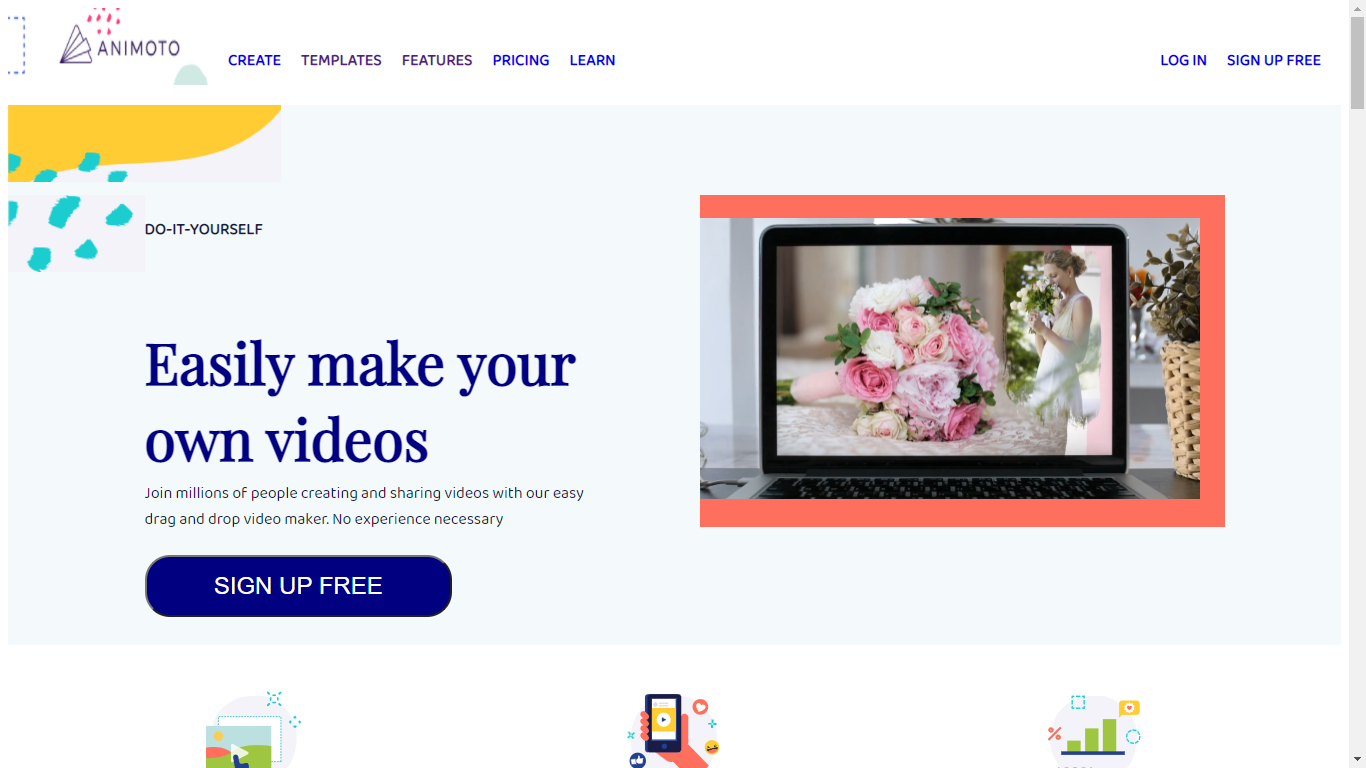
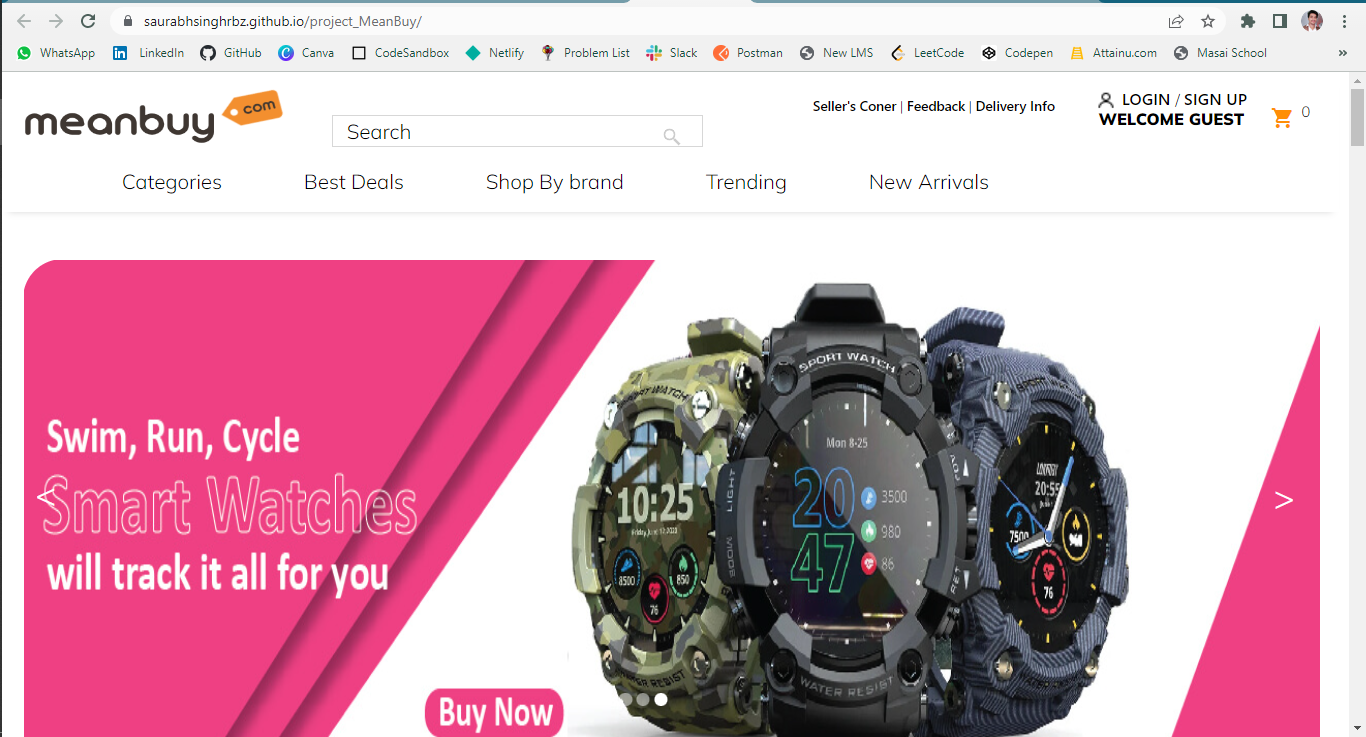
updating project

diff --git a/src/components/Projects/Projects.js b/src/components/Projects/Projects.js
@@ -25,7 +25,7 @@ function Projects() {
             Here are a few projects I've worked on recently.
           </p>
           <Row style={{ justifyContent: "center", paddingBottom: "10px" }}>
-            <Col md={6} className="project-card first-blog">
+            {/* <Col md={6} className="project-card first-blog">
               <ProjectCard
                 imgPath={project02}
                 isBlog={false}
@@ -35,21 +35,21 @@ function Projects() {
                 link="https://github.com/shivam-singh-au17/ProjectMediumClone"
                 demoLink="https://mediumapp.vercel.app/"
               />
-            </Col>
+            </Col> */}
 
             <Col md={6} className="project-card">
               <ProjectCard
                 imgPath={project01}
                 isBlog={false}
-                title="ONN Bikes 2.0"
-                tool=" HTML, CSS, JavaScript, Express.JS, MongoDB, NodeJS, EJS, Bootstrap "
-                description="This is another clone of my previous project Onnbikes.com In this project all the data is linked to the database and the whole website is built with the help of backend tools. It is a platform where bikes or scooters can rent bikes at the cheapest price with the most flexible daily, weekly, and monthly bike rental plans and all these facilities are available on our website too."
-                link="https://github.com/shivam-singh-au17/BackEndOnnBikes"
-                demoLink="https://onnbikes.herokuapp.com/"
+                title="India Today"
+                tool="  JavaScript, HTML, CSS, JSON ,DOM-Manipulation"
+                description="This project is clone of IndiaToday news websote. India Today is a 24-hour English language television network based in Noida, Uttar Pradesh that carries news, current affairs and business programming in India. The channel is owned by TV Today Network Ltd, which is a part of Living Media."
+                link="https://github.com/SaurabhSinghRbz/india-today-clone"
+                demoLink="https://india-today-clone.netlify.app/"
               />
             </Col>
 
-            <Col md={6} className="project-card">
+            {/* <Col md={6} className="project-card">
               <ProjectCard
                 imgPath={project01}
                 isBlog={false}
@@ -59,21 +59,21 @@ function Projects() {
                 link="https://github.com/shivam-singh-au17/project_oonbikes"
                 demoLink="https://onnbikes.vercel.app/"
               />
-            </Col>
+            </Col> */}
 
             <Col md={6} className="project-card second-blog">
               <ProjectCard
                 imgPath={project03}
                 isBlog={false}
-                title="Animoto"
-                tool=" HTML, CSS "
-                description="This website is a clone of Animoto.com and it is a cloud-based video creation service that produces video from photos, video clips, and music into video slideshows. This was the first project in my web development journey and it was made with just HTML and CSS. On our clone website, any user can see many types of video templates and can see the pricing of how much is charged for making a video."
-                link="https://github.com/shivam-singh-au17/Project_Damodar"
-                demoLink="https://project-damodar.vercel.app/"
+                title="MeanBUy"
+                tool="JavaScript, HTML, CSS, DOM-Manipulation, Localstorage "
+                description="This website is a clone of MeanBuy.com .MeanBuy is the future of online shopping. we let our customers Pay What They Want to Pay on a variety of retail products, ranging from women’s accessories to consumer electronics on MeanBuy.com."
+                link="https://github.com/SaurabhSinghRbz/project_MeanBuy"
+                demoLink="https://saurabhsinghrbz.github.io/project_MeanBuy/"
               />
             </Col>
 
-            <Col md={6} className="project-card second-blog">
+            {/* <Col md={6} className="project-card second-blog">
               <ProjectCard
                 imgPath={project05}
                 isBlog={false}
@@ -83,9 +83,9 @@ function Projects() {
                 link="https://github.com/shivam-singh-au17/shravasti-by-shivam-singh"
                 demoLink="https://shravasti-by-shivam-singh.vercel.app/"
               />
-            </Col>
+            </Col> */}
 
-            <Col md={6} className="project-card second-blog">
+            {/* <Col md={6} className="project-card second-blog">
               <ProjectCard
                 imgPath={project06}
                 isBlog={false}
@@ -95,9 +95,9 @@ function Projects() {
                 link="https://github.com/shivam-singh-au17/hackathon_App"
                 demoLink="https://hackathonapp.vercel.app/"
               />
-            </Col>
+            </Col> */}
 
-            <Col md={6} className="project-card second-blog">
+            {/* <Col md={6} className="project-card second-blog">
               <ProjectCard
                 imgPath={project07}
                 isBlog={false}
@@ -107,17 +107,17 @@ function Projects() {
                 link="https://github.com/shivam-singh-au17/Color_Generator"
                 demoLink="https://shivam-singh-au17.github.io/Color_Generator/"
               />
-            </Col>
+            </Col> */}
 
             <Col md={6} className="project-card second-blog">
               <ProjectCard
                 imgPath={project08}
                 isBlog={false}
-                title="Color Game"
-                tool=" HTML, CSS "
-                description="This is a kind of entertaining website where you can see whether you are able to write the letter of your name in the given time interval or not. In this game, where you move the mouse, the box will bright and it will be extinguished again after some time, then within that time you are able to write the word of your name or not, you can play this type of game here."
-                link="https://github.com/shivam-singh-au17/ColorGame"
-                demoLink="https://shivam-singh-au17.github.io/ColorGame/"
+                title="All Country Details"
+                tool="JavaScript, HTML, CSS, DOM-Manipulation "
+                description="This is my first webpage, which i made after my first two class of HTML and CSS. This webpage contains all sorts of useful information about every country packaged as convenient little country objects. It includes data from ISO 3166 (countries and states/subdivisions ), ISO 4217 (currency), and E.164 (phone numbers)."
+                link="https://github.com/SaurabhSinghRbz/All_Country_Details"
+                demoLink="https://allcountry-details.netlify.app/"
               />
             </Col>
           </Row>
